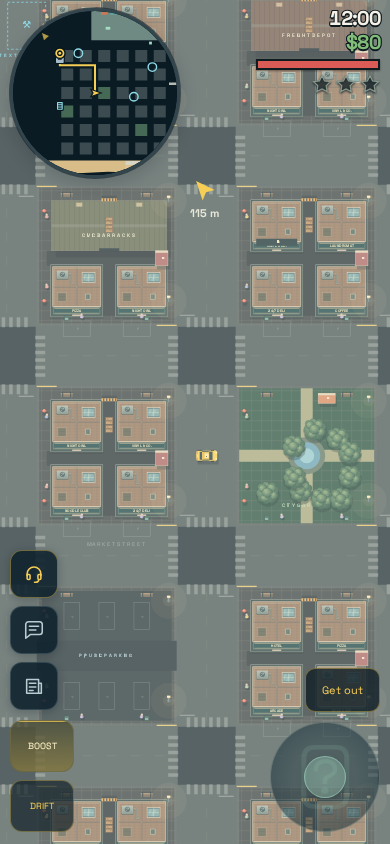
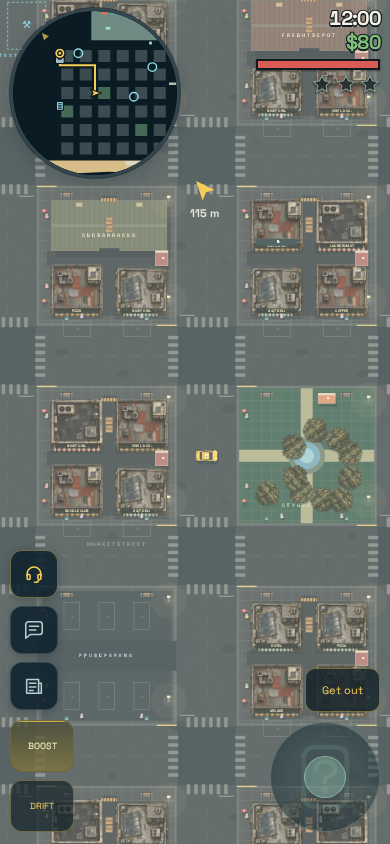
Give city artwork weathered materials and stable visual variety

diff --git a/src/artwork/catalogue.ts b/src/artwork/catalogue.ts
@@ -3,27 +3,39 @@ import { vec, type Vec } from '../physics';
 /** All coordinates are metres, relative to the collision body's centre. */
 export type ArtBounds = Readonly<{ x: number; y: number; width: number; height: number }>;
 export type PropArtwork = Readonly<{
-  image: 'shop' | 'tree';
+  image: 'shop-tar' | 'shop-rust' | 'shop-concrete' | 'tree-worn';
   layer: 'structure';
   bounds: ArtBounds;
+  rotation?: number;
   /** Convex silhouette for sun shadows; optional outline for blocking directed light. */
   silhouette: readonly Vec[];
   occluder?: readonly Vec[];
 }>;
-export type ArtProp = { kind: string; body: { position: Vec; angle?: number; w: number; h: number } };
+export type ArtProp = { id?: number; sourceId?: string; kind: string; body: { position: Vec; angle?: number; w: number; h: number } };
 const shopOutline = [vec(-5.3, -5.3), vec(5.3, -5.3), vec(5.3, 5.3), vec(-5.3, 5.3)];
+const shop = { layer: 'structure', bounds: { x: -5.3, y: -5.3, width: 10.6, height: 10.6 }, silhouette: shopOutline, occluder: shopOutline } as const;
 export const propArtwork = {
-  shop: { image: 'shop', layer: 'structure', bounds: { x: -5.3, y: -5.3, width: 10.6, height: 10.6 }, silhouette: shopOutline, occluder: shopOutline },
-  tree: { image: 'tree', layer: 'structure', bounds: { x: -2.6, y: -2.6, width: 5.2, height: 5.2 }, silhouette: Array.from({ length: 12 }, (_, i) => vec(Math.cos(i * Math.PI / 6) * 2.4, Math.sin(i * Math.PI / 6) * 2.4)) },
+  shop: { ...shop, image: 'shop-tar' },
+  shopRust: { ...shop, image: 'shop-rust' },
+  shopConcrete: { ...shop, image: 'shop-concrete' },
+  tree: { image: 'tree-worn', layer: 'structure', bounds: { x: -2.6, y: -2.6, width: 5.2, height: 5.2 }, silhouette: Array.from({ length: 12 }, (_, i) => vec(Math.cos(i * Math.PI / 6) * 2.4, Math.sin(i * Math.PI / 6) * 2.4)) },
 } as const satisfies Record<string, PropArtwork>;
-export const asphaltArtwork = { image: 'asphalt', layer: 'ground', tileMetres: 4 } as const;
+const shops = [propArtwork.shop, propArtwork.shopRust, propArtwork.shopConcrete];
+const trees = Array.from({ length: 4 }, (_, i) => ({ ...propArtwork.tree, rotation: i * Math.PI / 2 }));
+export const asphaltArtwork = { image: 'asphalt', layer: 'ground', tileMetres: 48 } as const;
 
-/** Initial defaults only. No label-based appearance, map migration or physics changes. */
+/** Appearance uses stable identity, never the simulation's random stream or display labels. */
+function appearanceSeed(prop: ArtProp): number {
+  const identity = prop.sourceId ?? String(prop.id ?? `${prop.body.position.x},${prop.body.position.y}`);
+  let seed = 2166136261;
+  for (let i = 0; i < identity.length; i++) seed = Math.imul(seed ^ identity.charCodeAt(i), 16777619);
+  return seed >>> 0;
+}
 export function artworkFor(prop: ArtProp): PropArtwork | undefined {
   const { position: p, w, h } = prop.body;
   if (p.x < 0 || p.x > 240 || p.y < 0 || p.y > 240) return;
-  if (prop.kind === 'building' && w === 10 && h === 10) return propArtwork.shop;
-  if (prop.kind === 'tree') return propArtwork.tree;
+  if (prop.kind === 'building' && w === 10 && h === 10) return shops[appearanceSeed(prop) % shops.length];
+  if (prop.kind === 'tree') return trees[appearanceSeed(prop) % trees.length];
 }
 export function artRadius(prop: ArtProp): number {
   const b = artworkFor(prop)?.bounds;

diff --git a/src/artwork/catalogue.test.ts b/src/artwork/catalogue.test.ts
@@ -2,11 +2,12 @@ import { describe, expect, it } from 'vitest';
 import { Body, contact, vec } from '../physics';
 import { collectOccluders, occluderFor, pointInConvex, shadowVolume } from '../lighting-occlusion';
 import { artRadius, artworkFor, propArtwork } from './catalogue';
+import { World } from '../world';
 
 describe('top-down artwork geometry', () => {
   it('keeps collision footprints independent of roof overhangs and foliage', () => {
     const tree = { kind: 'tree', body: new Body(90, 90, Infinity, 1.8, 1.8) };
-    expect(artworkFor(tree)).toBe(propArtwork.tree);
+    expect(artworkFor(tree)?.image).toBe('tree-worn');
     expect(artRadius(tree)).toBeGreaterThan(3.6);
     expect(contact(tree.body, new Body(92.2, 90, 1000, 0.7, 0.7))).toBeNull();
     const shop = { kind: 'building', body: new Body(14, 14, Infinity, 10, 10) };
@@ -26,6 +27,19 @@ describe('top-down artwork geometry', () => {
     expect(outline.points[0].y).toBeCloseTo(14 - Math.SQRT2 * 5.3);
     expect(pointInConvex(vec(35, 14), shadowVolume(vec(-10, 14), outline, 50))).toBe(true);
     expect(collectOccluders([{ ...prop, alive: false }], { minX: 0, minY: 0, maxX: 40, maxY: 40 }, 20, outlineFor)).toEqual([]);
+  });
+  it('assigns varied, stable artwork without using simulation randomness', () => {
+    const a = new World(), b = new World();
+    const appearances = a.props.map(p => artworkFor(p));
+    expect(new Set(appearances.filter(p => p?.image.startsWith('shop')).map(p => p!.image)).size).toBe(3);
+    expect(new Set(appearances.filter(p => p?.image === 'tree-worn').map(p => p!.rotation)).size).toBe(4);
+    expect(appearances).toEqual(b.props.map(p => artworkFor(p)));
+    expect(a.random()).toEqual(b.random());
+    const prop = a.props.find(p => artworkFor(p)?.image.startsWith('shop'))!;
+    const chosen = artworkFor(prop);
+    expect(artworkFor({ ...prop, label: 'A DIFFERENT NAME', body: new Body(200, 200, Infinity, 10, 10) } as typeof prop)).toBe(chosen);
+    const owned = { ...prop, sourceId: 'stable-authored-shop' };
+    expect(artworkFor({ ...owned, id: 9999 })).toBe(artworkFor(owned));
   });
   it('retains procedural visuals for other districts, sizes and prop kinds', () => {
     for (const prop of [

diff --git a/src/artwork/images.ts b/src/artwork/images.ts
@@ -1,5 +1,7 @@
-import shop from '../assets/map/shop.svg?inline';
-import tree from '../assets/map/tree.svg?inline';
+import shopTar from '../assets/map/shop-tar.png?inline';
+import shopRust from '../assets/map/shop-rust.png?inline';
+import shopConcrete from '../assets/map/shop-concrete.png?inline';
+import tree from '../assets/map/tree-worn.png?inline';
 import asphalt from '../assets/map/asphalt.svg?inline';
 import { asphaltArtwork, type ArtBounds, type PropArtwork } from './catalogue';
 
@@ -9,7 +11,7 @@ export class ArtworkImages {
   private loading?: Promise<void>;
   private patterns = new WeakMap<CanvasRenderingContext2D, CanvasPattern>();
   load(): Promise<void> {
-    return this.loading ??= Promise.all(Object.entries({ shop, tree, asphalt }).map(([id, src]) => new Promise<void>(resolve => {
+    return this.loading ??= Promise.all(Object.entries({ 'shop-tar': shopTar, 'shop-rust': shopRust, 'shop-concrete': shopConcrete, 'tree-worn': tree, asphalt }).map(([id, src]) => new Promise<void>(resolve => {
       const image = new Image();
       image.onload = () => { this.images.set(id, image); resolve(); };
       // Individual failures retain procedural fallback artwork, including in offline builds.
@@ -22,7 +24,8 @@ export class ArtworkImages {
     const image = this.images.get(art.image);
     if (!image) return false;
     const b = art.bounds;
-    c.drawImage(image, b.x, b.y, b.width, b.height);
+    c.save(); c.rotate(art.rotation ?? 0);
+    c.drawImage(image, b.x, b.y, b.width, b.height); c.restore();
     return true;
   }
   ground(c: CanvasRenderingContext2D, bounds: ArtBounds): void {
@@ -36,7 +39,7 @@ export class ArtworkImages {
       pattern.setTransform(new DOMMatrix().scale(size / image.naturalWidth, size / image.naturalHeight));
       this.patterns.set(c, pattern);
     }
-    c.save(); c.globalAlpha = 0.4; c.fillStyle = pattern;
+    c.save(); c.globalAlpha = 0.7; c.fillStyle = pattern;
     c.fillRect(bounds.x, bounds.y, bounds.width, bounds.height); c.restore();
   }
 }

diff --git a/src/renderer.ts b/src/renderer.ts
@@ -271,7 +271,7 @@ export class Renderer {
     }
     // The base palette was authored for a night city; lift it toward daylight so morning/afternoon
     // do not read as a darker night before the ambient lighting pass is applied.
-    this.rect(CITY_SHORE.min, CITY_SHORE.min, CITY_SHORE.max - CITY_SHORE.min, CITY_SHORE.max - CITY_SHORE.min, mixHex('#29383e', '#84938a', this.daylight * 0.45), '#bac2a5');
+    this.rect(CITY_SHORE.min, CITY_SHORE.min, CITY_SHORE.max - CITY_SHORE.min, CITY_SHORE.max - CITY_SHORE.min, mixHex('#253033', '#53615f', this.daylight * 0.45), '#bac2a5');
     artworkImages.ground(c, { x: CITY_SHORE.min, y: CITY_SHORE.min, width: CITY_SHORE.max - CITY_SHORE.min, height: CITY_SHORE.max - CITY_SHORE.min });
     this.countrysideGround();
     drawHarbourGround(this);
@@ -442,7 +442,8 @@ export class Renderer {
       c.save(); c.translate(so.x, so.y); c.globalAlpha *= this.shadowAlpha;
       trace(c, [...art.silhouette], true); c.fillStyle = '#172c2d80'; c.fill(); c.restore();
       artworkImages.draw(c, art);
-      if (art.image === 'shop') {
+      if (prop.kind === 'building') {
+        this.rect(-4.3, 3.55, 8.6, 1.0, '#182320dd');
         // Rasterize at a normal font size; subpixel Canvas fonts lose glyph strokes.
         c.save(); c.scale(0.05, 0.05);
         this.label(prop.label, 0, 81, 20 * Math.min(0.72, 8.6 / Math.max(1, prop.label.length * 0.65)), prop.label === 'PIT STOP' ? MINT : '#f0dfae', '700');

diff --git a/docs/map-artwork.md b/docs/map-artwork.md
@@ -1,21 +1,25 @@
 # Top-down map artwork
 
 The first artwork pass replaces standard 10 × 10 m city shops and urban trees
-with original SVG illustrations, and adds a repeating asphalt grain beneath city
-blocks. Other buildings, the countryside, harbour and beach keep their procedural
+with textured PNG illustrations, and adds asphalt grain, cracks and scattered
+repairs beneath city blocks. Three distinct roof materials (patched tar, rusted
+corrugated metal and weathered concrete) replace the uniform prototype roof.
+An irregular urban tree is reused in four deterministic orientations. Other buildings, the countryside, harbour and beach keep their procedural
 art. Vehicle, pedestrian, map and collision data are unchanged.
 
 ## Where to work
 
-- `src/assets/map/`: self-contained image files (SVG now; transparent PNG works too).
+- `src/assets/map/`: self-contained image files (transparent PNG sprites and an SVG ground tile).
 - `src/artwork/catalogue.ts`: image identity, bounds in metres, collision-centred
-  alignment, sun-shadow silhouette and optional directed-light occluder.
+  alignment, stable visual variants, sun-shadow silhouette and optional directed-light occluder.
 - `src/artwork/images.ts`: explicit `?inline` imports, shared image decoding and
   cached world-anchored ground patterns.
 - `src/renderer.ts`: ground and structure passes, dynamic signs and fallback drawing.
 
 The existing default appearance rules choose city shops by kind, size and position,
-never by display name. No map schema change or saved-map migration is needed for
+never by display name. A separate hash of source ID (or generated prop ID) picks
+roof material and tree orientation, without consuming simulation randomness.
+Moving or renaming an identified prop keeps its appearance. No map schema change or saved-map migration is needed for
 this first pass. Add authored visual IDs when individual map objects need distinct
 styles; do not use their labels as asset identifiers.
 
@@ -23,7 +27,7 @@ styles; do not use their labels as asset identifiers.
 
 All artwork uses a straight overhead view, with north at the top. The anchor is the
 collision body's centre. Bounds describe the *entire image*, including transparent
-padding, relative to that anchor. A 212 × 212 shop image occupies 10.6 × 10.6 m:
+padding, relative to that anchor. A 256 × 256 shop image occupies 10.6 × 10.6 m:
 its bounds start at (-5.3, -5.3), while its physical body stays 10 × 10 m. Urban
 tree art occupies 5.2 × 5.2 m around its existing 1.8 × 1.8 m collision body.
 
@@ -45,10 +49,10 @@ Images decode before the first game frame and are shared with editor previews.
 A failed image falls back to procedural drawing and its original light occluder.
 Dead props go through the existing rubble/destruction drawing before live artwork
 is considered. Dedicated damaged or destroyed images can follow when a particular
-asset needs them; this pass does not add an unused state/variant system.
+asset needs them; this pass keeps the existing damage lifecycle.
 
-The asphalt tile repeats every 4 m, anchored at world origin. It is transparent
-grain over the existing road colour, so daytime colour changes still work. Road
+The asphalt tile repeats every 48 m, anchored at world origin. It is transparent
+grain and sparse repairs over the darker road colour, so daytime colour changes still work. Road
 markings and sidewalks are drawn above it. Surface physics continues to use map
 geometry, never pixel colours. The tile pattern is cached per canvas context.
 
@@ -61,16 +65,23 @@ floors and isometric depth sorting are outside this first top-down pass.
 `npm test` covers physical footprint independence, rotating light outlines,
 destruction and procedural defaults. `npm run build` checks TypeScript and enforces
 one standalone HTML with embedded assets. `node tools/artwork-check.mjs` exercises
-the offline production build, actual SVG decoding/drawing, missing-image fallback,
+the offline production build, actual PNG decoding/drawing and all three roof variants, missing-image fallback,
 night lighting, physical tree destruction, fixed-step driving and compact touch
 layouts. Screenshots are written to `scenario-runs/artwork` by default.
 
-Verification for this first pass: 710 tests in 56 files passed, strict TypeScript
+Verification for this pass: 711 tests in 56 files passed, strict TypeScript
 and the standalone build passed, and the offline Chromium check passed on
 1440 × 900 desktop, 390 × 844 portrait and 844 × 390 landscape. An additional
 context deliberately failed all map image loads and retained playable procedural
 fallbacks. No browser errors or external HTTP(S) requests were observed.
 
-![City shops and park in daylight](screenshots/map-artwork/desktop-day.png)
+![Initial uniform concept](screenshots/map-artwork/before-day.png)
+![Grittier, varied city shops and park in daylight](screenshots/map-artwork/desktop-day.png)
+![Closer view of the roof materials and trees](screenshots/map-artwork/desktop-detail.png)
 ![The same artwork under night lighting](screenshots/map-artwork/desktop-night.png)
 ![Compact portrait layout](screenshots/map-artwork/portrait-day.png)
+
+The PNGs were generated separately with the built-in image-generation tool using
+the user-provided city scene as a style reference. Their transparent export margins
+were trimmed and they were resized to normal gameplay resolution. Full generation
+prompts are in [map-artwork-prompts.md](map-artwork-prompts.md).

diff --git a/docs/map-artwork-prompts.md b/docs/map-artwork-prompts.md
@@ -1,0 +1,20 @@
+# Gritty artwork prompts
+
+Generated with the built-in image-generation tool. The user supplied a top-down urban scene as a style reference. Each PNG was generated separately with transparency, then its near-transparent export margin was trimmed and the sprite resized for the game (256 px roofs, 192 px tree). Source artwork is preserved in the generation outputs. No API/CLI fallback was used.
+
+## shop-tar.png
+
+Use case: stylized-concept. Asset type: actual transparent PNG building sprite for a top-down driving game. The input image is STYLE REFERENCE ONLY: its gritty muted urban materials, visual density, and true overhead architecture. Generate ONE isolated square 10m by 10m shop rooftop, straight orthographic overhead, aligned with image axes. Occupy 96% of a square canvas with the complete building footprint, centred; leave only a thin transparent margin. No ground, pavement, street, people, vehicles, text or cast shadow outside the footprint. Flat ambient diffuse light; convincing local grime and material shading, but no dramatic illumination. Southern/bottom edge has a narrow faded striped shop awning; keep it inside the square. Rich painterly realistic game art, crisp at small size, dirty charcoal, desaturated concrete, moss, oxidised metal; avoid polished toy-like vector look. All props stay inside the building footprint. This building has a patched near-black bitumen flat roof, irregular grey repairs, damp stains and drain channels. One large battered twin-fan HVAC unit in the upper-left, old pale skylight lower-right, tangled pipes, a few windblown scraps. Faded burgundy and dirty-cream striped bottom awning. Strong asymmetry and broad readable patches.
+
+## shop-rust.png
+
+Use case: stylized-concept. Asset type: actual transparent PNG building sprite for a top-down driving game. The input image is STYLE REFERENCE ONLY: its gritty muted urban materials, visual density, and true overhead architecture. Generate ONE isolated square 10m by 10m shop rooftop, straight orthographic overhead, aligned with image axes. Occupy 96% of a square canvas with the complete building footprint, centred; leave only a thin transparent margin. No ground, pavement, street, people, vehicles, text or cast shadow outside the footprint. Flat ambient diffuse light; convincing local grime and material shading, but no dramatic illumination. Southern/bottom edge has a narrow faded striped shop awning; keep it inside the square. Rich painterly realistic game art, crisp at small size, dirty charcoal, desaturated concrete, moss, oxidised metal; avoid polished toy-like vector look. All props stay inside the building footprint. This building has weathered corrugated oxidised metal roofing with large rust-red and grey-green areas, uneven replacement sheets, dark water streaks, cracked guttering. A small mismatched pale plant room in the top-right, two exhaust ducts and a battered vent elsewhere. Faded mustard and dirty charcoal bottom awning. This should read very differently from a dark tar roof.
+
+## shop-concrete.png
+
+Use case: stylized-concept. Asset type: actual transparent PNG building sprite for a top-down driving game. The input image is STYLE REFERENCE ONLY: its gritty muted urban materials, visual density, and true overhead architecture. Generate ONE isolated square 10m by 10m shop rooftop, straight orthographic overhead, aligned with image axes. Occupy 96% of a square canvas with the complete building footprint, centred; leave only a thin transparent margin. No ground, pavement, street, people, vehicles, text or cast shadow outside the footprint. Flat ambient diffuse light; convincing local grime and material shading, but no dramatic illumination. Southern/bottom edge has a narrow faded striped shop awning; keep it inside the square. Rich painterly realistic game art, crisp at small size, dirty charcoal, desaturated concrete, moss, oxidised metal; avoid polished toy-like vector look. All props stay inside the building footprint. This building has aged pale stone-grey concrete roofing with broad cracks, a mossy perimeter, grimy runoff and rough patched repairs. A big diagonal glazed industrial skylight in the left half, small rooftop utility shed in upper-right, antenna, old ducts. Faded teal and dirty-cream striped bottom awning. Distinct roof silhouette details within the same square footprint.
+
+## tree-worn.png
+
+Use case: stylized-concept. Asset type: actual transparent PNG tree canopy sprite for a true top-down driving game. Input image is STYLE REFERENCE ONLY: gritty, muted, realistic overhead game world. Generate ONE isolated irregular mature urban broadleaf tree seen DIRECTLY FROM ABOVE, crown centred in a square canvas, fills 94% of canvas; transparent background. Rough asymmetric canopy with gaps, tiny hints of branches, some sparse dry brown foliage among dark dusty olive and sage-green leaves. Natural painterly realistic texture, large readable leaf clusters, restrained highlights, flat ambient daylight, no ground, no grass, no pavement, no text, no cast shadow, no isometric perspective, no shiny spherical topiary. Needs to read clearly at 40-70 pixels wide.
+

diff --git a/src/assets/ATTRIBUTION.md b/src/assets/ATTRIBUTION.md
@@ -19,5 +19,9 @@ accessible from the game's welcome/pause settings.
 
 ## Map artwork
 
-`map/shop.svg`, `map/tree.svg`, and `map/asphalt.svg` are original illustrations
-created for Taxi Chaos. They contain no external images, fonts or other assets.
+`map/shop-tar.png`, `map/shop-rust.png`, `map/shop-concrete.png`, and
+`map/tree-worn.png` were generated for Taxi Chaos with OpenAI's built-in image
+generation tool, using a user-supplied urban scene as a style reference. Prompt
+specifications are in `docs/map-artwork-prompts.md`. Transparent sprites are trimmed
+and resized for gameplay. `map/asphalt.svg` is original vector surface detail.
+These assets require no external fonts, images or runtime services.
